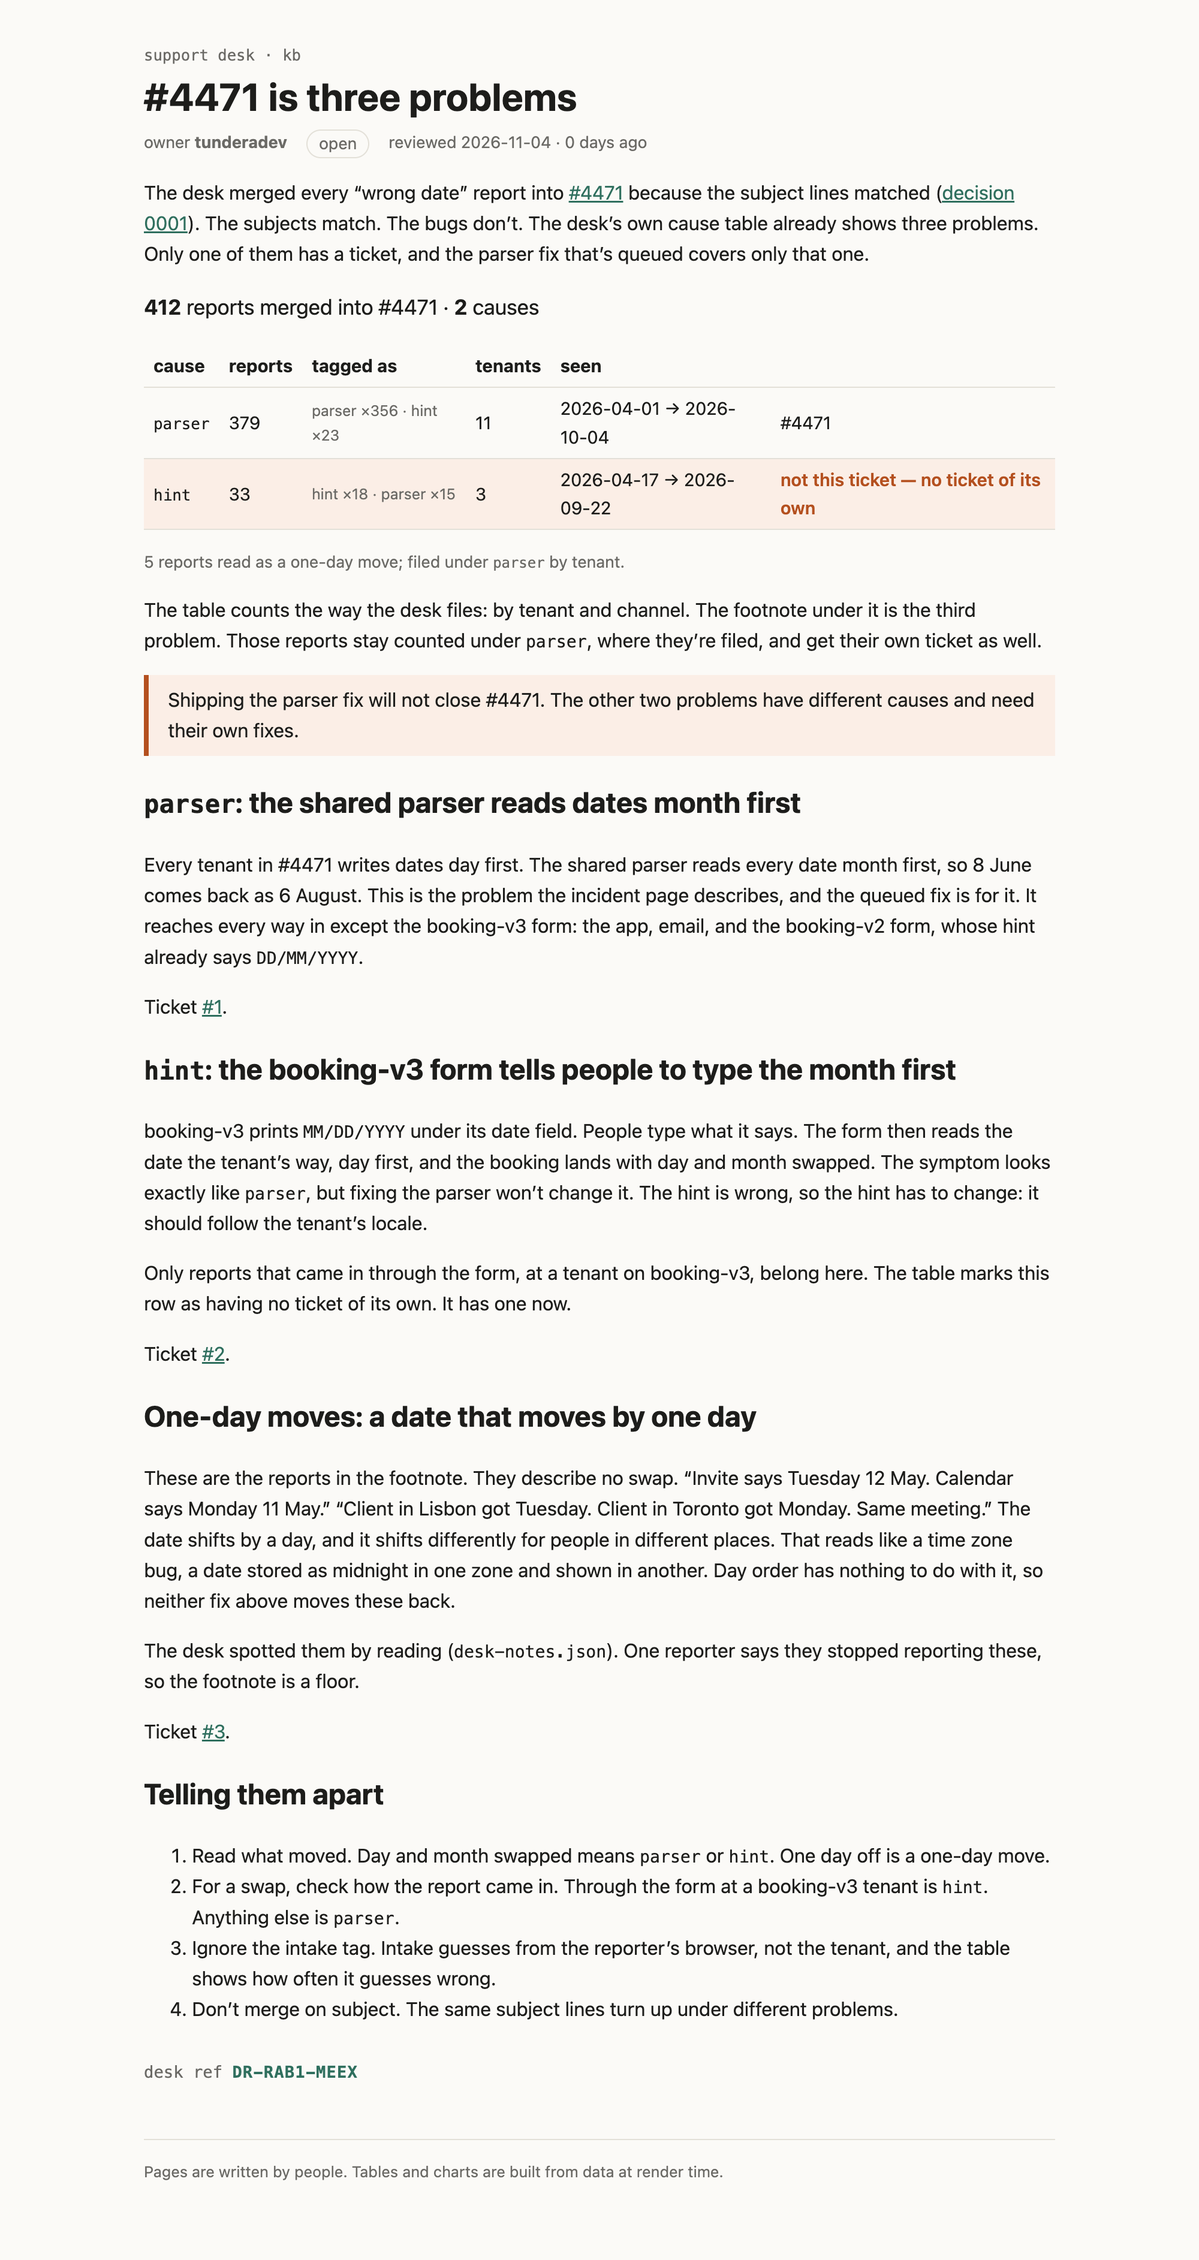
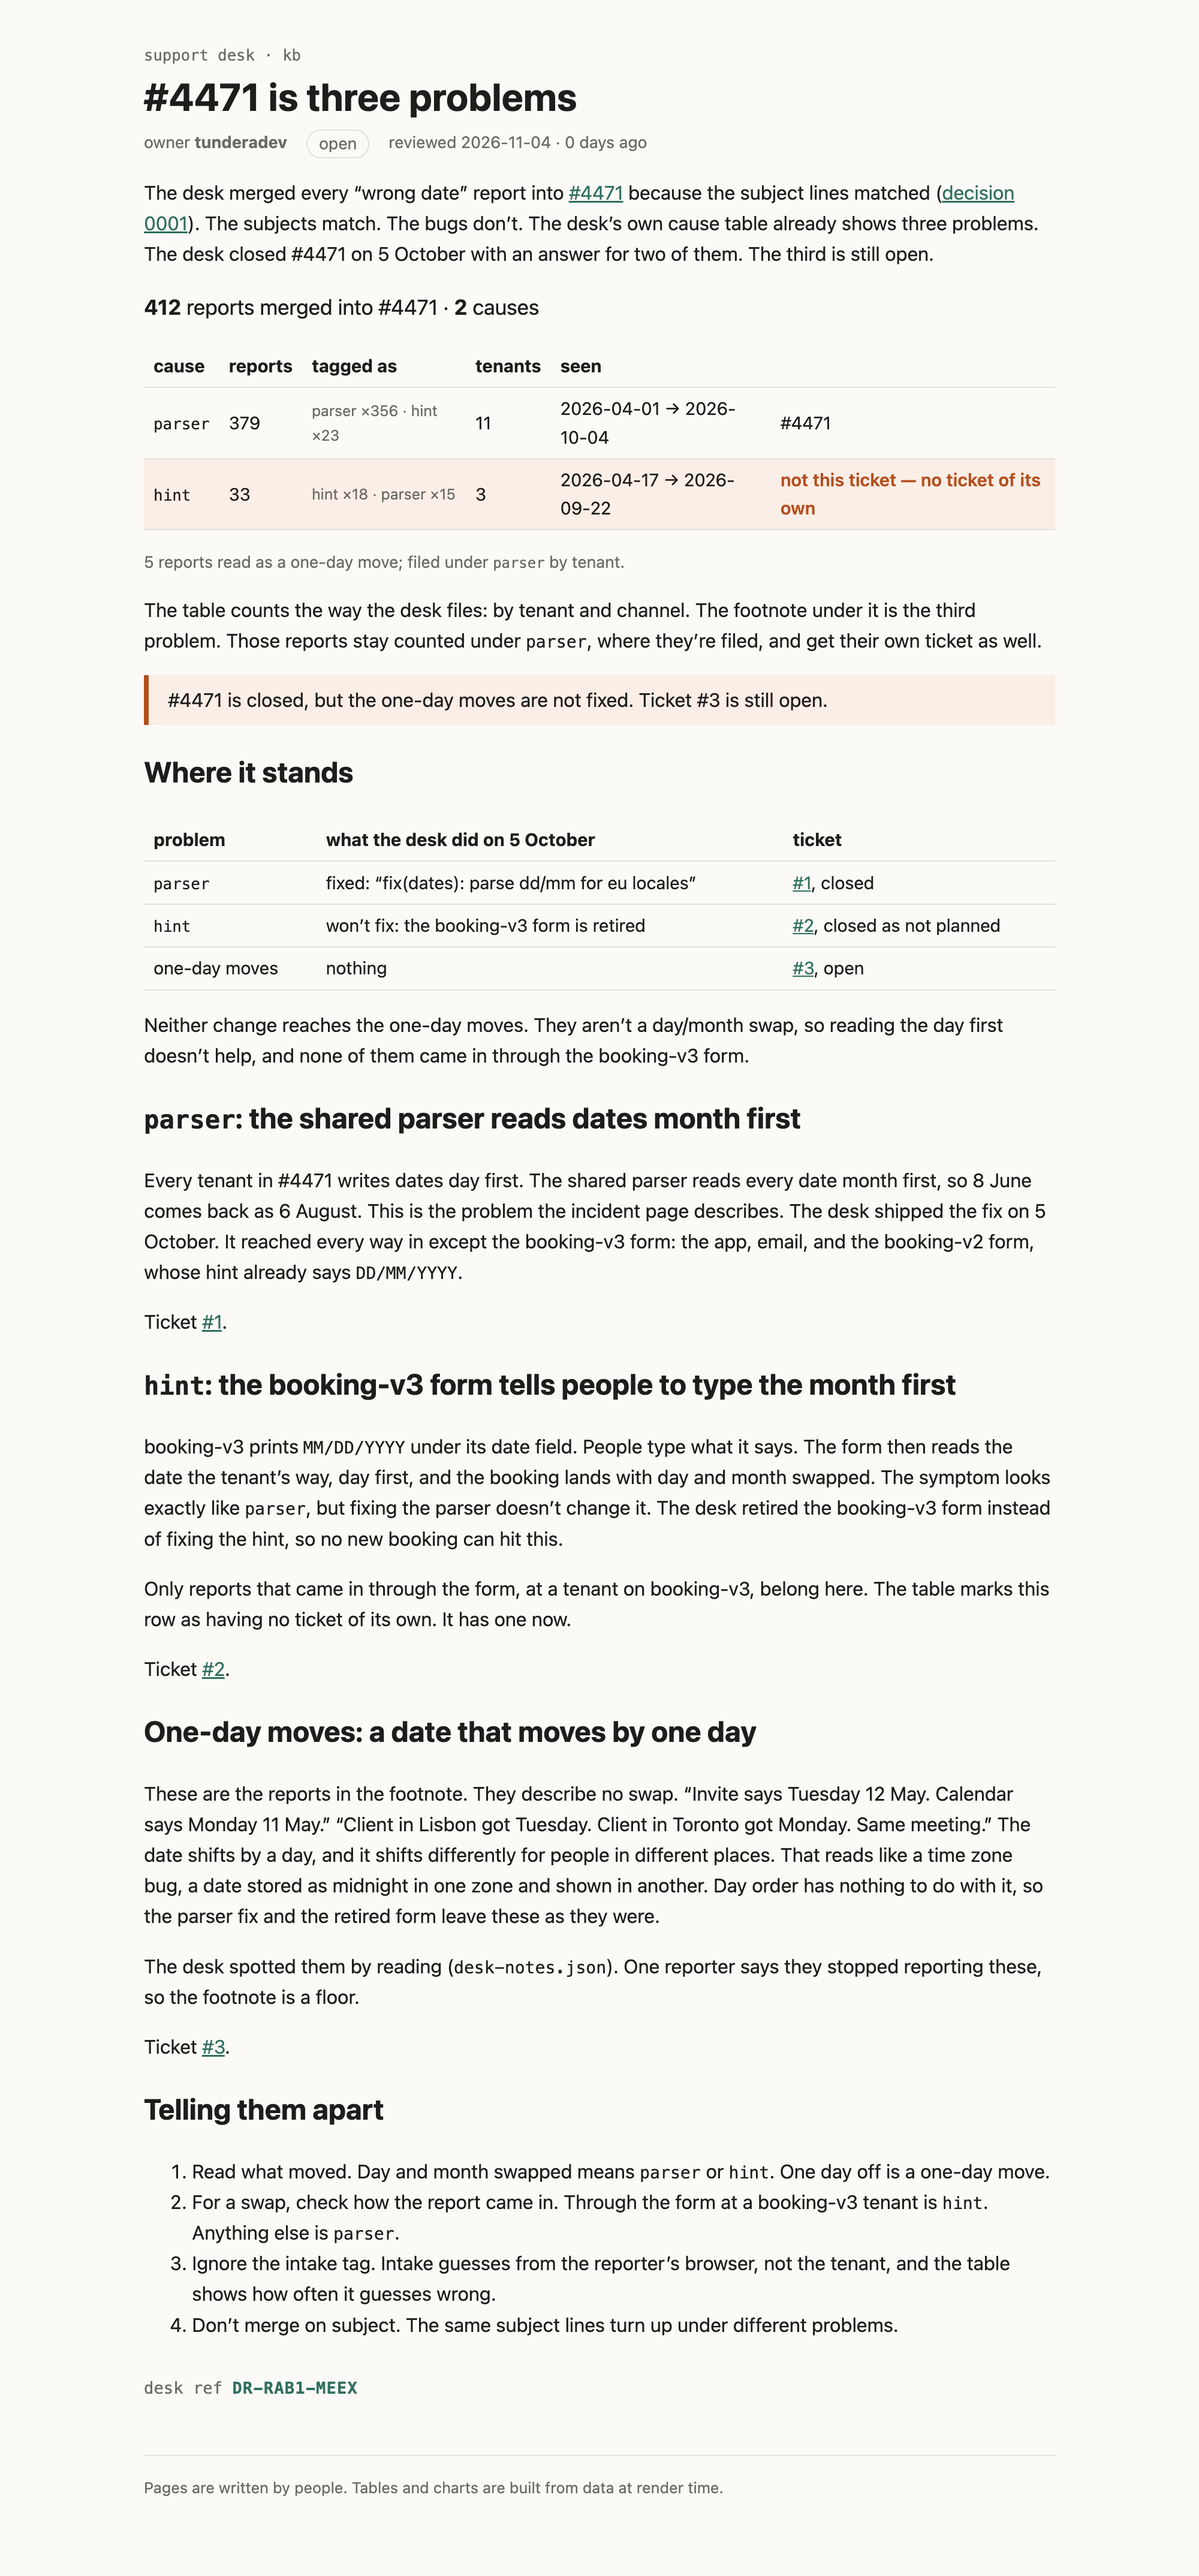
Record how #4471 closed on 5 October
parser is fixed and the booking-v3 hint is won't-fix because the form
is retired. The one-day moves have no fix yet, so #3 stays open.

Changed region(s): [[0.093, 0.0, 0.868, 0.931]]

diff --git a/rendered/kb/incidents/4471/problems.html b/rendered/kb/incidents/4471/problems.html
@@ -30,22 +30,22 @@
   <body data-sveltekit-preload-data="hover">
     <div style="display: contents"><!--[--><!--[--><!--[0--><!--[--><!--[--><!--[-1--><!--[--><div class="kb svelte-e2jw2j"><header><a class="crumb svelte-e2jw2j" href="/kb">support desk · kb</a> <h1 class="svelte-e2jw2j">#4471 is three problems</h1> <p class="meta svelte-e2jw2j"><span>owner <b>tunderadev</b></span> <span class="status open svelte-e2jw2j">open</span> <span class="svelte-e2jw2j">reviewed 2026-11-04 · 0 days ago</span></p></header> <!--[-1--><!--]--> <main><p>The desk merged every “wrong date” report into <a href="/kb/incidents/4471">#4471</a> because the subject
 lines matched (<a href="/kb/decisions/0001-dedupe-by-subject">decision 0001</a>). The subjects match. The
-bugs don’t. The desk’s own cause table already shows three problems. Only one of them has a
-ticket, and the parser fix that’s queued covers only that one.</p> <p class="sum svelte-12oyimm"><strong>412</strong> reports merged into #4471 · <strong>2</strong> causes</p> <table><thead><tr><th>cause</th><th>reports</th><th>tagged as</th><th>tenants</th><th>seen</th><th></th></tr></thead><tbody><!--[--><tr class="svelte-12oyimm"><td class="svelte-12oyimm"><code>parser</code></td><td class="svelte-12oyimm">379</td><td class="tags svelte-12oyimm">parser ×356 · hint ×23</td><td class="svelte-12oyimm">11</td><td class="svelte-12oyimm">2026-04-01 → 2026-10-04</td><td class="svelte-12oyimm">#4471</td></tr><tr class="svelte-12oyimm wrong"><td class="svelte-12oyimm"><code>hint</code></td><td class="svelte-12oyimm">33</td><td class="tags svelte-12oyimm">hint ×18 · parser ×15</td><td class="svelte-12oyimm">3</td><td class="svelte-12oyimm">2026-04-17 → 2026-09-22</td><td class="svelte-12oyimm">not this ticket — no ticket of its own</td></tr><!--]--></tbody></table> <!--[--><!--[0--><p class="note svelte-12oyimm">5 reports read as a one-day move; filed under <code>parser</code> by tenant.</p><!--]--><!--[-1--><!--]--><!--]--><!----> <p>The table counts the way the desk files: by tenant and channel. The footnote under it is the
+bugs don’t. The desk’s own cause table already shows three problems. The desk closed #4471 on
+5 October with an answer for two of them. The third is still open.</p> <p class="sum svelte-12oyimm"><strong>412</strong> reports merged into #4471 · <strong>2</strong> causes</p> <table><thead><tr><th>cause</th><th>reports</th><th>tagged as</th><th>tenants</th><th>seen</th><th></th></tr></thead><tbody><!--[--><tr class="svelte-12oyimm"><td class="svelte-12oyimm"><code>parser</code></td><td class="svelte-12oyimm">379</td><td class="tags svelte-12oyimm">parser ×356 · hint ×23</td><td class="svelte-12oyimm">11</td><td class="svelte-12oyimm">2026-04-01 → 2026-10-04</td><td class="svelte-12oyimm">#4471</td></tr><tr class="svelte-12oyimm wrong"><td class="svelte-12oyimm"><code>hint</code></td><td class="svelte-12oyimm">33</td><td class="tags svelte-12oyimm">hint ×18 · parser ×15</td><td class="svelte-12oyimm">3</td><td class="svelte-12oyimm">2026-04-17 → 2026-09-22</td><td class="svelte-12oyimm">not this ticket — no ticket of its own</td></tr><!--]--></tbody></table> <!--[--><!--[0--><p class="note svelte-12oyimm">5 reports read as a one-day move; filed under <code>parser</code> by tenant.</p><!--]--><!--[-1--><!--]--><!--]--><!----> <p>The table counts the way the desk files: by tenant and channel. The footnote under it is the
 third problem. Those reports stay counted under <code>parser</code>, where they’re filed, and get their own
-ticket as well.</p> <aside class="warn svelte-17bri61"><!---->Shipping the parser fix will not close #4471. The other two problems have different causes and
-need their own fixes.<!----></aside><!----> <h2><code>parser</code>: the shared parser reads dates month first</h2> <p>Every tenant in #4471 writes dates day first. The shared parser reads every date month first, so
-8 June comes back as 6 August. This is the problem the incident page describes, and the queued
-fix is for it. It reaches every way in except the booking-v3 form: the app, email, and the
+ticket as well.</p> <aside class="warn svelte-17bri61"><!---->#4471 is closed, but the one-day moves are not fixed. Ticket #3 is still open.<!----></aside><!----> <h2>Where it stands</h2> <table><thead><tr><th>problem</th><th>what the desk did on 5 October</th><th>ticket</th></tr></thead><tbody><tr><td><code>parser</code></td><td>fixed: “fix(dates): parse dd/mm for eu locales”</td><td><a href="https://github.com/tunderadev/mega-support-kb/issues/1" rel="nofollow">#1</a>, closed</td></tr><tr><td><code>hint</code></td><td>won’t fix: the booking-v3 form is retired</td><td><a href="https://github.com/tunderadev/mega-support-kb/issues/2" rel="nofollow">#2</a>, closed as not planned</td></tr><tr><td>one-day moves</td><td>nothing</td><td><a href="https://github.com/tunderadev/mega-support-kb/issues/3" rel="nofollow">#3</a>, open</td></tr></tbody></table> <p>Neither change reaches the one-day moves. They aren’t a day/month swap, so reading the day first
+doesn’t help, and none of them came in through the booking-v3 form.</p> <h2><code>parser</code>: the shared parser reads dates month first</h2> <p>Every tenant in #4471 writes dates day first. The shared parser reads every date month first, so
+8 June comes back as 6 August. This is the problem the incident page describes. The desk shipped
+the fix on 5 October. It reached every way in except the booking-v3 form: the app, email, and the
 booking-v2 form, whose hint already says <code>DD/MM/YYYY</code>.</p> <p>Ticket <a href="https://github.com/tunderadev/mega-support-kb/issues/1" rel="nofollow">#1</a>.</p> <h2><code>hint</code>: the booking-v3 form tells people to type the month first</h2> <p>booking-v3 prints <code>MM/DD/YYYY</code> under its date field. People type what it says. The form then
 reads the date the tenant’s way, day first, and the booking lands with day and month swapped. The
-symptom looks exactly like <code>parser</code>, but fixing the parser won’t change it. The hint is wrong,
-so the hint has to change: it should follow the tenant’s locale.</p> <p>Only reports that came in through the form, at a tenant on booking-v3, belong here. The table
+symptom looks exactly like <code>parser</code>, but fixing the parser doesn’t change it. The desk retired
+the booking-v3 form instead of fixing the hint, so no new booking can hit this.</p> <p>Only reports that came in through the form, at a tenant on booking-v3, belong here. The table
 marks this row as having no ticket of its own. It has one now.</p> <p>Ticket <a href="https://github.com/tunderadev/mega-support-kb/issues/2" rel="nofollow">#2</a>.</p> <h2>One-day moves: a date that moves by one day</h2> <p>These are the reports in the footnote. They describe no swap. “Invite says Tuesday 12 May.
 Calendar says Monday 11 May.” “Client in Lisbon got Tuesday. Client in Toronto got Monday. Same
 meeting.” The date shifts by a day, and it shifts differently for people in different places.
 That reads like a time zone bug, a date stored as midnight in one zone and shown in another. Day
-order has nothing to do with it, so neither fix above moves these back.</p> <p>The desk spotted them by reading (<code>desk-notes.json</code>). One reporter says they stopped reporting
+order has nothing to do with it, so the parser fix and the retired form leave these as they were.</p> <p>The desk spotted them by reading (<code>desk-notes.json</code>). One reporter says they stopped reporting
 these, so the footnote is a floor.</p> <p>Ticket <a href="https://github.com/tunderadev/mega-support-kb/issues/3" rel="nofollow">#3</a>.</p> <h2>Telling them apart</h2> <ol><li>Read what moved. Day and month swapped means <code>parser</code> or <code>hint</code>. One day off is a one-day move.</li> <li>For a swap, check how the report came in. Through the form at a booking-v3 tenant is <code>hint</code>.
 Anything else is <code>parser</code>.</li> <li>Ignore the intake tag. Intake guesses from the reporter’s browser, not the tenant, and the
 table shows how often it guesses wrong.</li> <li>Don’t merge on subject. The same subject lines turn up under different problems.</li></ol> <!--[0--><p class="stamp svelte-1280m42">desk ref <b class="svelte-1280m42">DR-RAB1-MEEX</b></p><!--]--><!----><!----></main> <footer class="svelte-e2jw2j">Pages are written by people. Tables and charts are built from data at render time.</footer></div><!--]--><!--]--><!--]--><!----><!--]--><!--]--><!--]--><!----> <!--[-1--><!--]--><!--]-->
